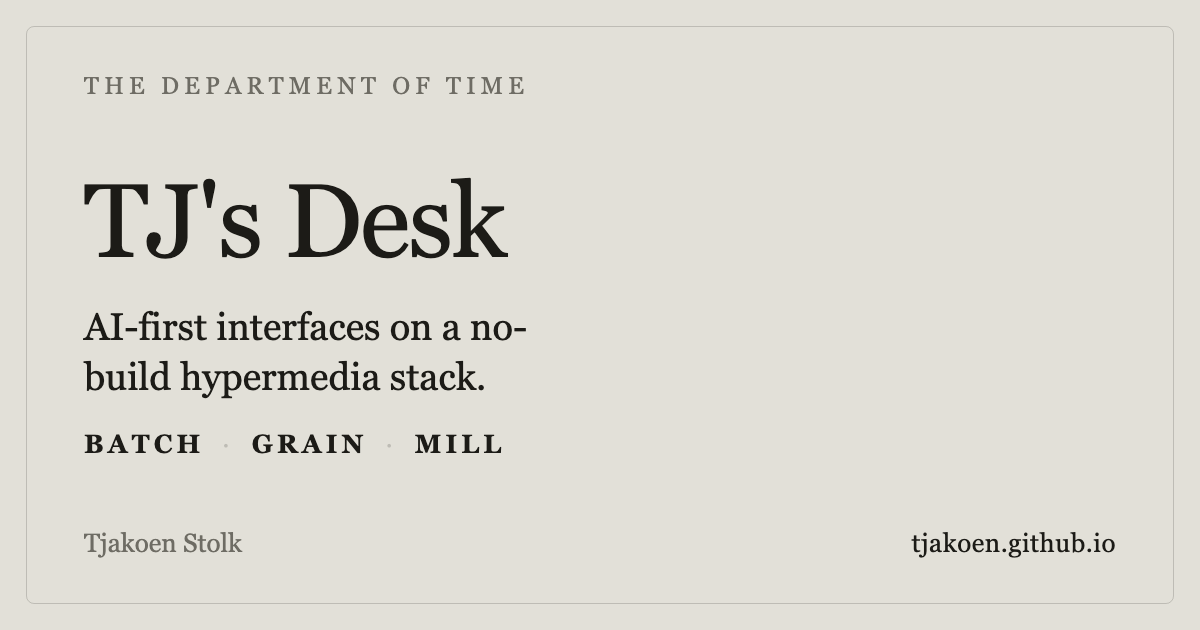
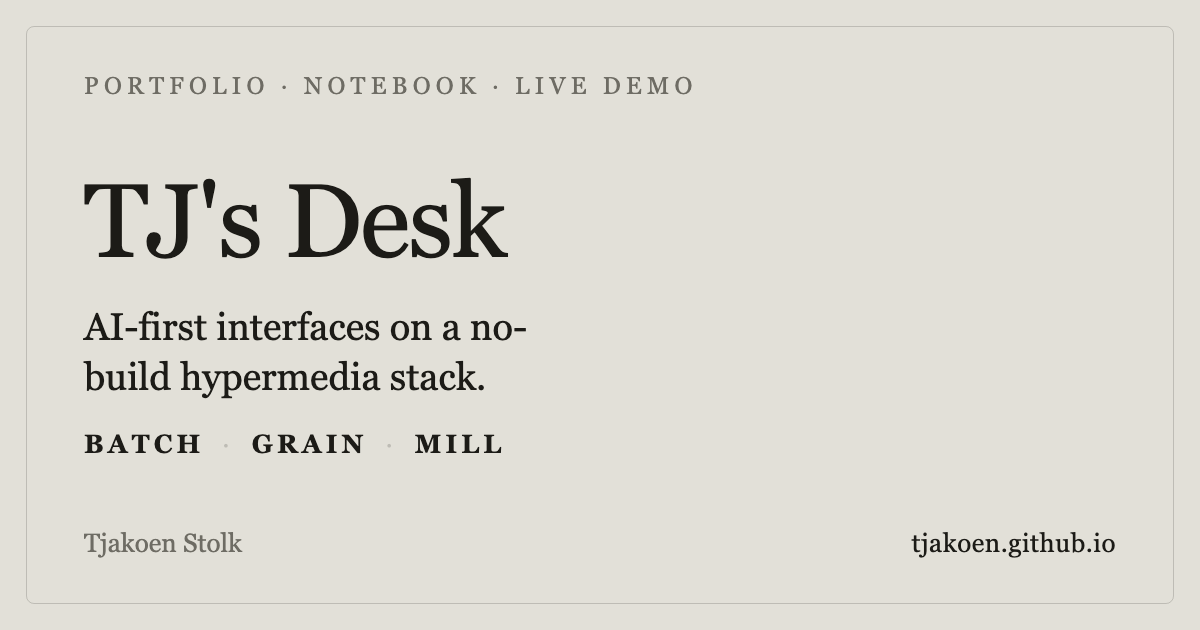
content: remove the retired "Department of Time" name
That name was dropped long ago but had crept back in — including onto the new
og-card. Replace it with the settled identity everywhere: the site/product is
"TJ's Desk", and desk pages (calendar, mail, loop) use the "The Desk" eyebrow.

- og-card.ts: eyebrow → "Portfolio · Notebook · Live demo"; regenerate og-card.png
- loop.html: title → "· TJ's Desk"; masthead eyebrow → "The Desk"
- screenshots.ts gallery eyebrow → "TJ's Desk" (+ comment)
- VOICE.md specifics-bank entry: "Department of Time" → "TJ's Desk" (naming settled)
- re-bless the loop visual baseline for the eyebrow text

Changed region(s): [[0.0617, 0.1206, 0.5858, 0.1508]]

diff --git a/pages/loop.html b/pages/loop.html
@@ -3,7 +3,7 @@
 <head>
   <meta charset="utf-8">
   <meta name="viewport" content="width=device-width, initial-scale=1">
-  <title>The desk · Department of Time</title>
+  <title>The desk · TJ's Desk</title>
   <meta name="description" content="The reference screen: watch the AI plan and act through the one shared door, its presence lit as it works. The same vocabulary a human and an AI both operate.">
   <!-- htmx loads the initial list; shell.js runs the rail; the dispatcher runs the AI loop. -->
   <script src="/vendor/htmx.min.js" defer></script>
@@ -15,7 +15,7 @@
     <main class="app-shell__main">
       <div class="board">
         <!-- masthead (DESIGN-SYSTEM §5) -->
-        <p class="eyebrow">The <span class="name">Department of Time</span></p>
+        <p class="eyebrow">The <span class="name">Desk</span></p>
         <h1 class="masthead">A desk that writes back.</h1>
         <hr class="rule">
 

diff --git a/tools/screenshots.ts b/tools/screenshots.ts
@@ -167,7 +167,7 @@ try {
   await browser.close();
 
   // a self-contained gallery (body content only — openable locally + publishable as an
-  // Artifact). Styled to match the product it shows: Department of Time paper/ink, a serif
+  // Artifact). Styled to match the product it shows: e-ink / Swiss-editorial paper/ink, a serif
   // masthead, hairline-framed plates. Lives here so `bun run shots` always regenerates it.
   const gallery =
     `<style>\n` +
@@ -190,7 +190,7 @@ try {
     `        border-radius: 4px; background: #fff; }\n` +
     `</style>\n` +
     `<div class="wrap">\n` +
-    `  <p class="eyebrow">The Department of Time</p>\n` +
+    `  <p class="eyebrow">TJ's Desk</p>\n` +
     `  <h1>UI snapshots</h1>\n` +
     `  <p class="lede">Captured headless from the running app for visual review. Regenerate any time with <code>bun run shots</code>.</p>\n` +
     `  <hr>\n` +

diff --git a/tools/og-card.ts b/tools/og-card.ts
@@ -42,7 +42,7 @@ const card = `<!doctype html><html><head><meta charset="utf-8"><style>
 </style></head><body>
   <div class="card">
     <div>
-      <p class="eyebrow">The Department of Time</p>
+      <p class="eyebrow">Portfolio · Notebook · Live demo</p>
     </div>
     <div style="display:flex; flex-direction:column; gap:28px;">
       <h1 class="title">${SITE.name}</h1>

diff --git a/standards/VOICE.md b/standards/VOICE.md
@@ -193,9 +193,8 @@ Reach into this shelf instead of writing *"a modern typeface"* or *"a recent pro
 (Real ≠ automatically publishable; see the guardrails.)
 
 **Projects (the recurring cast)**
-- **Department of Time:** a plain HTML/CSS personal app, e-ink / Swiss-editorial. The flagship of
-  his aesthetic; home of the dot-matrix life tracker. *(Naming in flux; the in-repo product is
-  currently "Project", temp; settle before publishing.)*
+- **TJ's Desk:** his personal site (tjakoen.github.io) — a portfolio, a notebook, and a live demo
+  of the stack, built on it. E-ink / Swiss-editorial; the flagship of his aesthetic.
 - **The AI-operable design system (GRAIN + BATCH):** a docs site that doesn't just *describe*
   components, it lets the AI *drive* them: drivable catalog, build queue, token playground. The
   thesis project.
